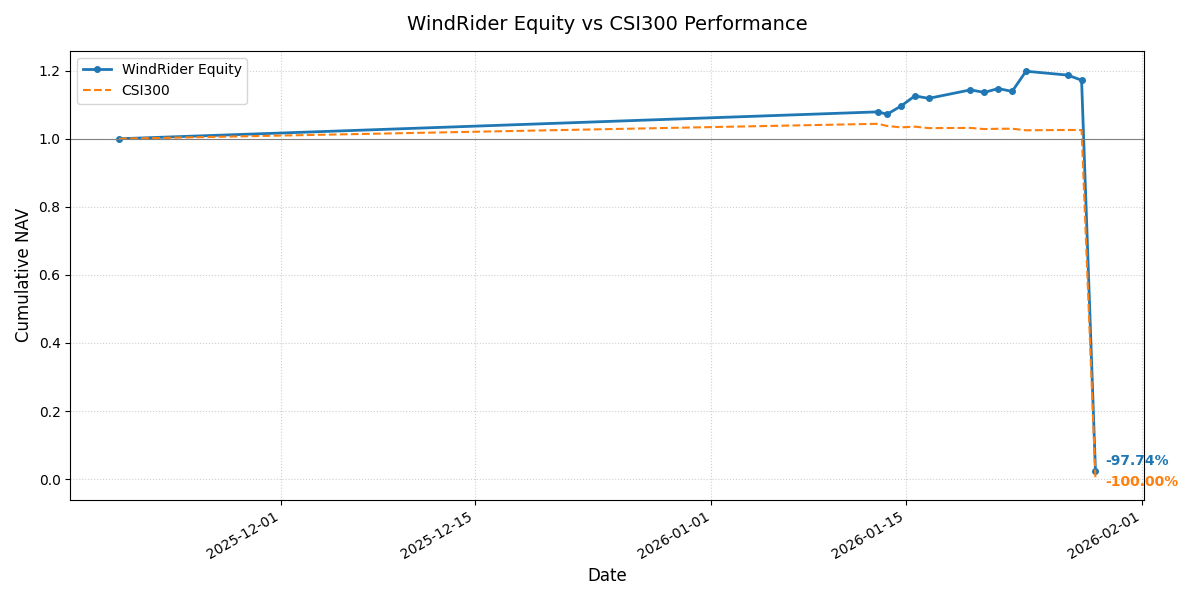
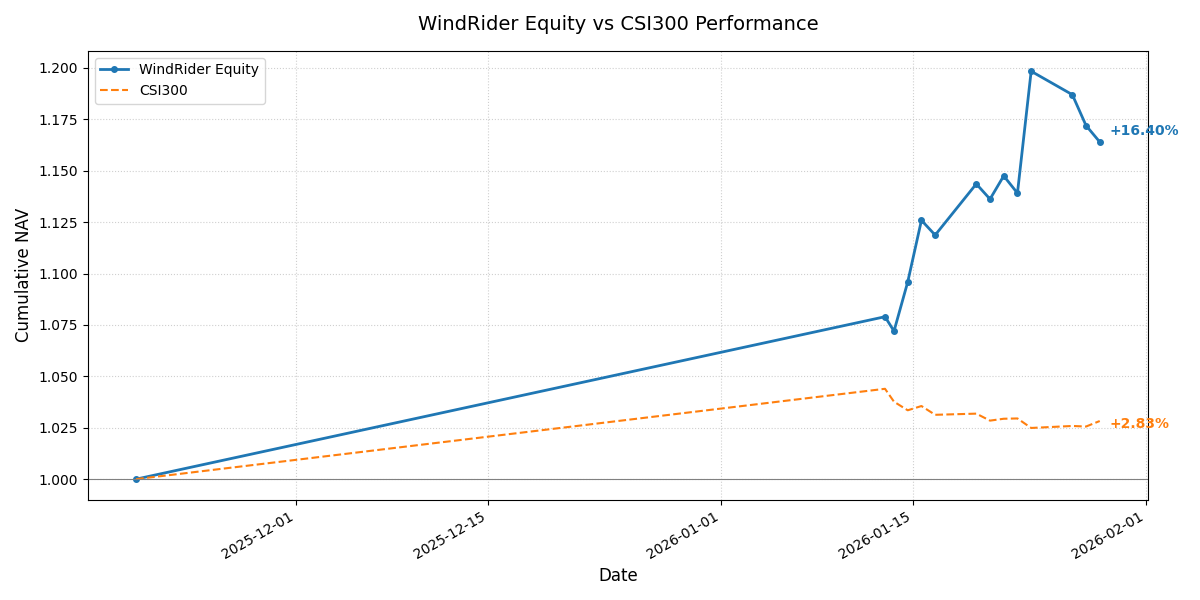
Updated Hugo site content

diff --git a/public/investment/position/index.html b/public/investment/position/index.html
@@ -66,8 +66,8 @@
   <meta property="og:locale" content="zh-cn">
   <meta property="og:type" content="article">
     <meta property="article:section" content="investment">
-    <meta property="article:published_time" content="2026-01-27T15:47:00+08:00">
-    <meta property="article:modified_time" content="2026-01-27T15:47:00+08:00">
+    <meta property="article:published_time" content="2026-01-28T15:10:29+08:00">
+    <meta property="article:modified_time" content="2026-01-28T15:10:29+08:00">
 <meta name="twitter:card" content="summary">
 <meta name="twitter:title" content="持仓 Position">
 <meta name="twitter:description" content="WindRider Stock Portfolio">
@@ -103,11 +103,11 @@
   "keywords": [
     
   ],
-  "articleBody": " 风舵股票组合 /// 每日持仓 WindRider Equity Portfolio 净值简报 (截至: 2026-01-27)\n指数代码： WDR.EQ 成立日期： 2025-11-19 最新净值： 1.1720 今日涨跌： -1.26% ===========================\n核心表现 累计收益： +17.20% 年化收益： +131.54% 最大回撤： -2.20% 基准点位： 4705.69 (CSI300) 策略状态： 已运行 70 天 持仓明细 股票名称 成本价 现价 盈亏 占比 先导智能 300450 49.41 61.17 +23.80% 51.55% 新 和 成 002001 24.77 27.60 +11.41% 46.52% 收益率对比曲线 声明：本页面数据为实盘记录，持仓数据每日收盘后更新。\n数据仅供技术交流，不构成投资建议。\n",
-  "wordCount" : "55",
+  "articleBody": " 风舵股票组合 /// 每日持仓 WindRider Equity Portfolio 净值简报 (截至: 2026-01-28)\n指数代码： WDR.EQ 成立日期： 2025-11-19 最新净值： 0.0226 今日涨跌： -98.07% ===========================\n核心表现 累计收益： -97.74% 年化收益： -100.00% 最大回撤： -98.11% 基准点位： 0.00 (CSI300) 策略状态： 已运行 71 天 持仓明细 股票名称 成本价 现价 盈亏 占比 Unknown 300450 49.41 0.00 -100.00% 0.0% Unknown 002001 24.77 0.00 -100.00% 0.0% 收益率对比曲线 声明：本页面数据为实盘记录，持仓数据每日收盘后更新。\n数据仅供技术交流，不构成投资建议。\n",
+  "wordCount" : "53",
   "inLanguage": "zh-cn",
-  "datePublished": "2026-01-27T15:47:00+08:00",
-  "dateModified": "2026-01-27T15:47:00+08:00",
+  "datePublished": "2026-01-28T15:10:29+08:00",
+  "dateModified": "2026-01-28T15:10:29+08:00",
   "mainEntityOfPage": {
     "@type": "WebPage",
     "@id": "https://hankou.com/investment/position/"
@@ -191,7 +191,7 @@
     <div class="post-description">
       WindRider Stock Portfolio
     </div>
-    <div class="post-meta"><span title='2026-01-27 15:47:00 +0800 CST'>January 27, 2026</span>
+    <div class="post-meta"><span title='2026-01-28 15:10:29 +0800 CST'>January 28, 2026</span>
 
 </div>
   </header> 
@@ -200,7 +200,7 @@
 </style>
 <h3 id="风舵股票组合--每日持仓">风舵股票组合   <span style="color: #E63946; font-weight: bold;">/</span><span style="color: #F1A73E; font-weight: bold;">/</span><span style="color: #000091; font-weight: bold;">/</span>   每日持仓<a hidden class="anchor" aria-hidden="true" href="#风舵股票组合--每日持仓">#</a></h3>
 <p>WindRider Equity Portfolio <br>
-净值简报 <small>(截至: 2026-01-27)</small></p>
+净值简报 <small>(截至: 2026-01-28)</small></p>
 <table>
   <thead>
       <tr>
@@ -219,11 +219,11 @@
       </tr>
       <tr>
           <td style="text-align: left"><strong>最新净值：</strong></td>
-          <td style="text-align: left">1.1720</td>
+          <td style="text-align: left">0.0226</td>
       </tr>
       <tr>
           <td style="text-align: left"><strong>今日涨跌：</strong></td>
-          <td style="text-align: left">-1.26%</td>
+          <td style="text-align: left">-98.07%</td>
       </tr>
   </tbody>
 </table>
@@ -238,23 +238,23 @@
   <tbody>
       <tr>
           <td style="text-align: left"><strong>累计收益：</strong></td>
-          <td style="text-align: left">+17.20%</td>
+          <td style="text-align: left">-97.74%</td>
       </tr>
       <tr>
           <td style="text-align: left"><strong>年化收益：</strong></td>
-          <td style="text-align: left">+131.54%</td>
+          <td style="text-align: left">-100.00%</td>
       </tr>
       <tr>
           <td style="text-align: left"><strong>最大回撤：</strong></td>
-          <td style="text-align: left">-2.20%</td>
+          <td style="text-align: left">-98.11%</td>
       </tr>
       <tr>
           <td style="text-align: left"><strong>基准点位：</strong></td>
-          <td style="text-align: left">4705.69 (CSI300)</td>
+          <td style="text-align: left">0.00 (CSI300)</td>
       </tr>
       <tr>
           <td style="text-align: left"><strong>策略状态：</strong></td>
-          <td style="text-align: left">已运行 70 天</td>
+          <td style="text-align: left">已运行 71 天</td>
       </tr>
   </tbody>
 </table>
@@ -272,19 +272,19 @@
   </thead>
   <tbody>
       <tr>
-          <td style="text-align: left">先导智能 <small>300450</small></td>
+          <td style="text-align: left">Unknown <small>300450</small></td>
           <td style="text-align: left">49.41</td>
-          <td style="text-align: left">61.17</td>
-          <td style="text-align: left"><span style="color:#E63946">+23.80%</span></td>
-          <td style="text-align: left">51.55%</td>
+          <td style="text-align: left">0.00</td>
+          <td style="text-align: left"><span style="color:#2A9D8F">-100.00%</span></td>
+          <td style="text-align: left">0.0%</td>
           <td></td>
       </tr>
       <tr>
-          <td style="text-align: left">新 和 成 <small>002001</small></td>
+          <td style="text-align: left">Unknown <small>002001</small></td>
           <td style="text-align: left">24.77</td>
-          <td style="text-align: left">27.60</td>
-          <td style="text-align: left"><span style="color:#E63946">+11.41%</span></td>
-          <td style="text-align: left">46.52%</td>
+          <td style="text-align: left">0.00</td>
+          <td style="text-align: left"><span style="color:#2A9D8F">-100.00%</span></td>
+          <td style="text-align: left">0.0%</td>
           <td></td>
       </tr>
   </tbody>

diff --git a/public/investment/windrider-1/index.html b/public/investment/windrider-1/index.html
@@ -66,8 +66,8 @@
   <meta property="og:locale" content="zh-cn">
   <meta property="og:type" content="article">
     <meta property="article:section" content="investment">
-    <meta property="article:published_time" content="2026-01-27T15:54:34+08:00">
-    <meta property="article:modified_time" content="2026-01-27T15:54:34+08:00">
+    <meta property="article:published_time" content="2026-01-28T16:17:30+08:00">
+    <meta property="article:modified_time" content="2026-01-28T16:17:30+08:00">
 <meta name="twitter:card" content="summary">
 <meta name="twitter:title" content="风舵1号 (WindRider I)  /// 指数">
 <meta name="twitter:description" content="商品期货分形摆动策略实盘">
@@ -103,11 +103,11 @@
   "keywords": [
     
   ],
-  "articleBody": " 风舵1号 (WindRider I) /// 指数 商品期货分形摆动策略实盘\n净值简报 (截至: 2026-01-27)\n指数代码： WDR1.CTA 起步日期： 2026-01-06 最新净值： 0.8301 今日涨跌： +11.01% ===========================\n核心指标 累计涨跌： -16.99% 年化收益： -96.07% 最大回撤： -30.11% 卡玛比率： -3.19 策略状态： 已运行 22 天 净值曲线图 声明：本页面数据为实盘记录，持仓数据每日收盘后更新。\n数据仅供技术交流，不构成投资建议。\n",
+  "articleBody": " 风舵1号 (WindRider I) /// 指数 商品期货分形摆动策略实盘\n净值简报 (截至: 2026-01-28)\n指数代码： WDR1.CTA 起步日期： 2026-01-06 最新净值： 0.5820 今日涨跌： -20.58% ===========================\n核心指标 累计涨跌： -41.80% 年化收益： -99.99% 最大回撤： -45.60% 卡玛比率： -2.19 策略状态： 已运行 23 天 净值曲线图 声明：本页面数据为实盘记录，持仓数据每日收盘后更新。\n数据仅供技术交流，不构成投资建议。\n",
   "wordCount" : "34",
   "inLanguage": "zh-cn",
-  "datePublished": "2026-01-27T15:54:34+08:00",
-  "dateModified": "2026-01-27T15:54:34+08:00",
+  "datePublished": "2026-01-28T16:17:30+08:00",
+  "dateModified": "2026-01-28T16:17:30+08:00",
   "mainEntityOfPage": {
     "@type": "WebPage",
     "@id": "https://hankou.com/investment/windrider-1/"
@@ -191,7 +191,7 @@
     <div class="post-description">
       商品期货分形摆动策略实盘
     </div>
-    <div class="post-meta"><span title='2026-01-27 15:54:34 +0800 CST'>January 27, 2026</span>
+    <div class="post-meta"><span title='2026-01-28 16:17:30 +0800 CST'>January 28, 2026</span>
 
 </div>
   </header> 
@@ -203,7 +203,7 @@
 </style>
 <h3 id="风舵1号-windrider-i--指数">风舵1号 (WindRider I)   <span style="color: #E63946; font-weight: bold;">/</span><span style="color: #F1A73E; font-weight: bold;">/</span><span style="color: #000091; font-weight: bold;">/</span>   指数<a hidden class="anchor" aria-hidden="true" href="#风舵1号-windrider-i--指数">#</a></h3>
 <p>商品期货分形摆动策略实盘<br>
-净值简报 <small>(截至: 2026-01-27)</small></p>
+净值简报 <small>(截至: 2026-01-28)</small></p>
 <table>
   <thead>
       <tr>
@@ -222,11 +222,11 @@
       </tr>
       <tr>
           <td style="text-align: left"><strong>最新净值：</strong></td>
-          <td style="text-align: left">0.8301</td>
+          <td style="text-align: left">0.5820</td>
       </tr>
       <tr>
           <td style="text-align: left"><strong>今日涨跌：</strong></td>
-          <td style="text-align: left">+11.01%</td>
+          <td style="text-align: left">-20.58%</td>
       </tr>
   </tbody>
 </table>
@@ -241,23 +241,23 @@
   <tbody>
       <tr>
           <td style="text-align: left"><strong>累计涨跌：</strong></td>
-          <td style="text-align: left">-16.99%</td>
+          <td style="text-align: left">-41.80%</td>
       </tr>
       <tr>
           <td style="text-align: left"><strong>年化收益：</strong></td>
-          <td style="text-align: left">-96.07%</td>
+          <td style="text-align: left">-99.99%</td>
       </tr>
       <tr>
           <td style="text-align: left"><strong>最大回撤：</strong></td>
-          <td style="text-align: left">-30.11%</td>
+          <td style="text-align: left">-45.60%</td>
       </tr>
       <tr>
           <td style="text-align: left"><strong>卡玛比率：</strong></td>
-          <td style="text-align: left">-3.19</td>
+          <td style="text-align: left">-2.19</td>
       </tr>
       <tr>
           <td style="text-align: left"><strong>策略状态：</strong></td>
-          <td style="text-align: left">已运行 22 天</td>
+          <td style="text-align: left">已运行 23 天</td>
       </tr>
   </tbody>
 </table>

diff --git a/public/investment/index.html b/public/investment/index.html
@@ -152,7 +152,7 @@
   <div class="entry-content">
     <p>商品期货分形摆动策略，实盘最新净值与核心风险指标。</p>
   </div>
-  <footer class="entry-footer"><span title='2026-01-27 15:54:34 +0800 CST'>January 27, 2026</span></footer>
+  <footer class="entry-footer"><span title='2026-01-28 16:17:30 +0800 CST'>January 28, 2026</span></footer>
   <a class="entry-link" aria-label="post link to 风舵1号 (WindRider I)  /// 指数" href="https://hankou.com/investment/windrider-1/"></a>
 </article>
 
@@ -164,7 +164,7 @@
   <div class="entry-content">
     <p>主动管理型股票组合。对标沪深300指数，采用基本面选股策略。</p>
   </div>
-  <footer class="entry-footer"><span title='2026-01-27 15:47:00 +0800 CST'>January 27, 2026</span></footer>
+  <footer class="entry-footer"><span title='2026-01-28 15:10:29 +0800 CST'>January 28, 2026</span></footer>
   <a class="entry-link" aria-label="post link to 持仓 Position" href="https://hankou.com/investment/position/"></a>
 </article>
 

diff --git a/content/investment/position.md b/content/investment/position.md
@@ -1,8 +1,8 @@
 +++
 title = "持仓 Position"
 summary = "主动管理型股票组合。对标沪深300指数，采用基本面选股策略。"
-date = 2026-01-28T15:10:29+08:00
-lastmod = 2026-01-28T15:10:29+08:00
+date = 2026-01-28T17:14:39+08:00
+lastmod = 2026-01-28T17:14:39+08:00
 draft = false
 description = "WindRider Stock Portfolio"
 +++
@@ -18,24 +18,24 @@ WindRider Equity Portfolio <br>
 | :--- | :--- |
 | **指数代码：** | WDR.EQ |
 | **成立日期：** | 2025-11-19 |
-| **最新净值：** | 0.0226 |
-| **今日涨跌：** | -98.07% |
+| **最新净值：** | 1.1640 |
+| **今日涨跌：** | -0.68% |
 
 ===========================
 
 | 核心表现 | |
 | :--- | :--- |
-| **累计收益：** | -97.74% |
-| **年化收益：** | -100.00% |
-| **最大回撤：** | -98.11% |
-| **基准点位：** | 0.00 (CSI300) |
+| **累计收益：** | +16.40% |
+| **年化收益：** | +120.75% |
+| **最大回撤：** | -2.87% |
+| **基准点位：** | 4717.99 (CSI300) |
 | **策略状态：** | 已运行 71 天 |
 
 ### 持仓明细
 | 股票名称 | 成本价 | 现价 | 盈亏 | 占比 |
 | :--- | :--- | :--- | :--- | :--- | :--- |
-| Unknown <small>300450</small> | 49.41 | 0.00 | <span style="color:#2A9D8F">-100.00%</span> | 0.0% |
-| Unknown <small>002001</small> | 24.77 | 0.00 | <span style="color:#2A9D8F">-100.00%</span> | 0.0% |
+| 先导智能 <small>300450</small> | 49.41 | 59.50 | <span style="color:#E63946">+20.42%</span> | 50.47% |
+| 新 和 成 <small>002001</small> | 24.77 | 28.05 | <span style="color:#E63946">+13.23%</span> | 46.59% |
 
 <br>
 
